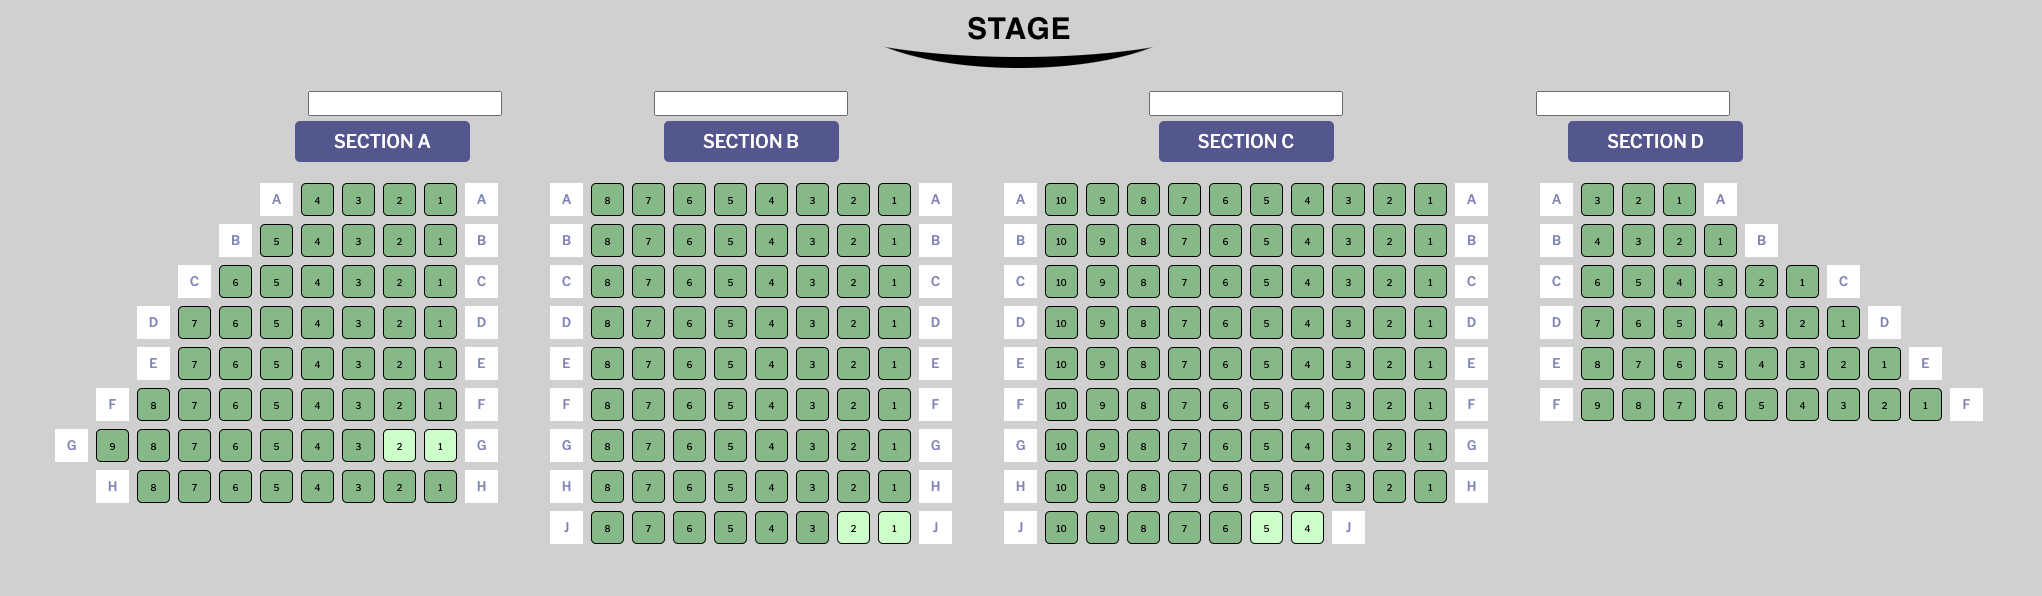
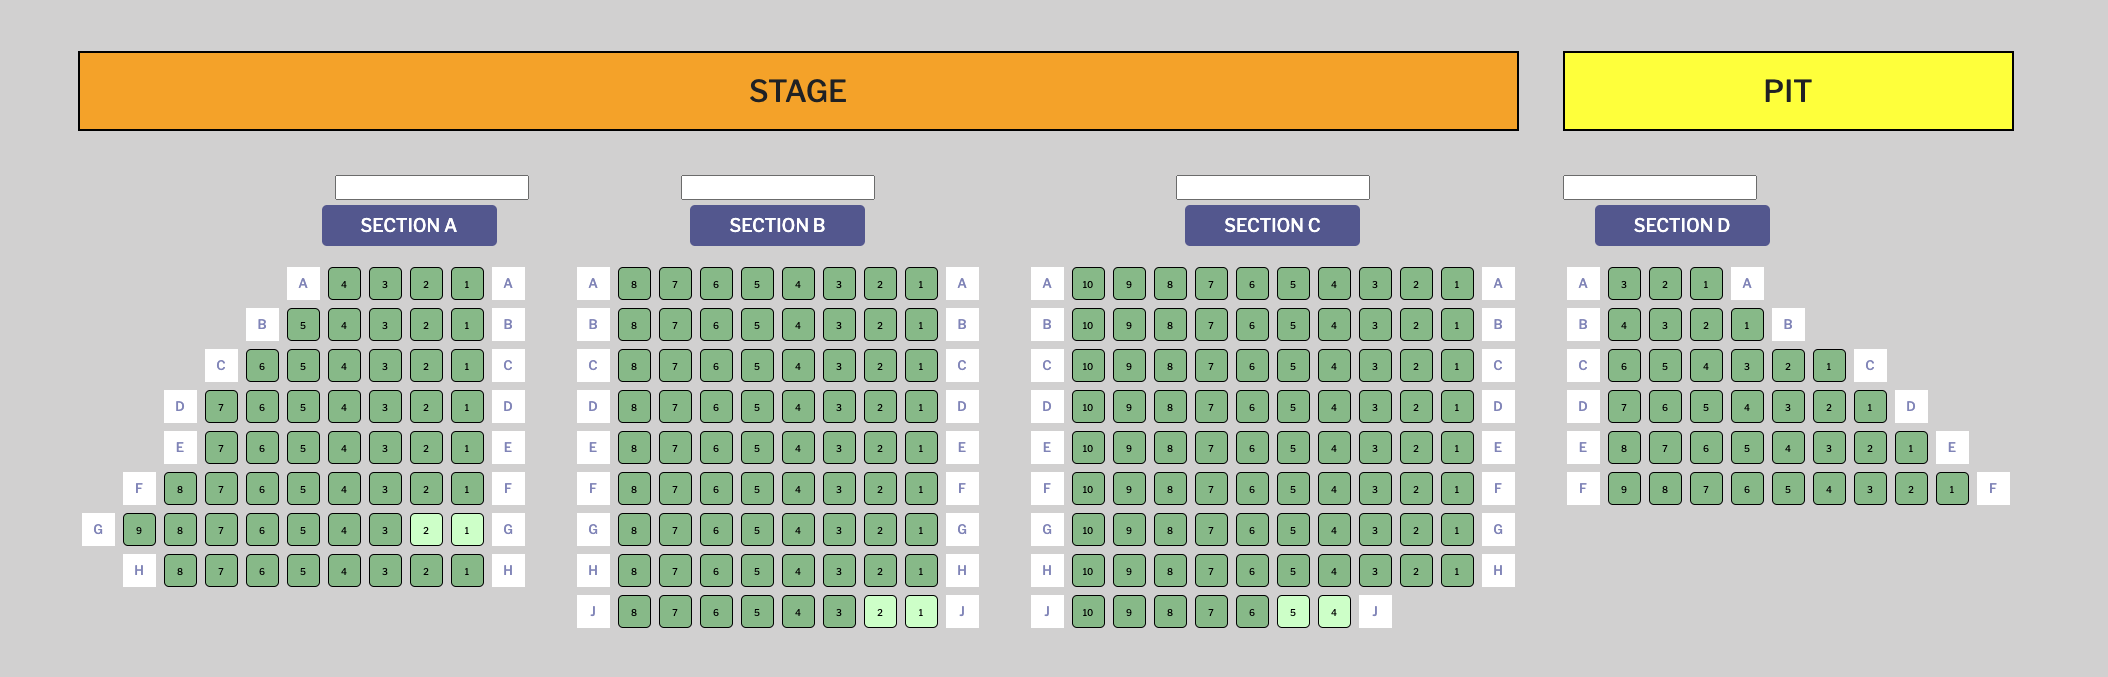
updates

diff --git a/Completed/38965.html b/Completed/38965.html
@@ -1,26 +1,35 @@
 <!-- Family of Christ 2024 -->
-<table width="100%" border="0" cellspacing="0" cellpadding="0" align="center">
-  <!-- Stage Image -->
-  <tr>
-    <td>
-      <div align="center" style="position: relative; z-index: 0">
-        <img
-          src="https://s3.amazonaws.com/prdv2-dt-client/seating_images/stage.png"
-          alt="STAGE"
-          width="300"
-          height="80"
-        />
-      </div>
-    </td>
-  </tr>
+<style>
+  .stage-section {
+    width: 100%;
+    height: 80px;
+    display: flex;
+    justify-content: center;
+    align-items: center;
+    border: 2px solid black;
+    background-color: orange;
+    font-size: 30px;
+  }
+  .pit-section {
+    width: 100%;
+    height: 80px;
+    display: flex;
+    justify-content: center;
+    align-items: center;
+    border: 2px solid black;
+    background-color: yellow;
+    font-size: 30px;
+  }
+</style>
 
+<table width="100%" border="0" cellspacing="0" cellpadding="0" align="center">
   <tr>
     <td>
       <div align="center" style="position: relative; z-index: 0">
         <img
           src="https://s3.amazonaws.com/prdv2-dt-client/seating_images/pixel.png"
           width="1"
-          height="10"
+          height="50"
         />
       </div>
     </td>
@@ -31,6 +40,37 @@
     <td>
       <div align="center" style="position: relative; z-index: 1">
         <table align="center">
+          <!-- Stage and Pit -->
+          <tr>
+            <td colspan="5">
+              <div class="stage-section" align="center">STAGE</div>
+            </td>
+            <td rowspan="4">
+              <div align="center">
+                <img
+                  src="https://s3.amazonaws.com/prdv2-dt-client/seating_images/pixel.png"
+                  width="40"
+                  height="1"
+                />
+              </div>
+            </td>
+            <td>
+              <div class="pit-section" align="center">PIT</div>
+            </td>
+          </tr>
+
+          <tr>
+            <td>
+              <div align="center">
+                <img
+                  src="https://s3.amazonaws.com/prdv2-dt-client/seating_images/pixel.png"
+                  width="1"
+                  height="40"
+                />
+              </div>
+            </td>
+          </tr>
+
           <!-- Names -->
           <tr>
             <td>
@@ -64,15 +104,6 @@
             <td>
               <div align="center" style="position: relative; z-index: 0">
                 {{{ sectionNames.50855 }}}
-              </div>
-            </td>
-            <td rowspan="2">
-              <div align="center" style="position: relative; z-index: 0">
-                <img
-                  src="https://s3.amazonaws.com/prdv2-dt-client/seating_images/pixel.png"
-                  width="40"
-                  height="1"
-                />
               </div>
             </td>
             <td>

diff --git a/Completed/39176.html b/Completed/39176.html
@@ -1,0 +1,98 @@
+<!-- Stretton Hall -->
+<table width="100%" border="0" cellspacing="0" cellpadding="0" align="center">
+  <!-- Stage Image -->
+  <tr>
+    <td>
+      <div align="center" style="position: relative; z-index: 0">
+        <img
+          src="https://s3.amazonaws.com/prdv2-dt-client/seating_images/stage.png"
+          alt="STAGE"
+          width="300"
+          height="80"
+        />
+      </div>
+    </td>
+  </tr>
+
+  <tr>
+    <td>
+      <div align="center" style="position: relative; z-index: 0">
+        <img
+          src="https://s3.amazonaws.com/prdv2-dt-client/seating_images/pixel.png"
+          width="1"
+          height="10"
+        />
+      </div>
+    </td>
+  </tr>
+
+  <!-- ALL -->
+  <tr>
+    <td>
+      <div align="center">
+        <table align="center">
+          <!-- Names -->
+          <tr>
+            <td>
+              <div
+                align="center"
+                style="position: relative; z-index: 0;"
+              >
+                {{{ sectionNames.51085 }}}
+              </div>
+            </td>
+            <td rowspan="2">
+              <div align="center" style="position: relative; z-index: 0">
+                <img
+                  src="https://s3.amazonaws.com/prdv2-dt-client/seating_images/pixel.png"
+                  width="40"
+                  height="1"
+                />
+              </div>
+            </td>
+            <td>
+              <div align="center" style="position: relative; z-index: 0">
+                {{{ sectionNames.51086 }}}
+              </div>
+            </td>
+            <td rowspan="2">
+              <div align="center" style="position: relative; z-index: 0">
+                <img
+                  src="https://s3.amazonaws.com/prdv2-dt-client/seating_images/pixel.png"
+                  width="40"
+                  height="1"
+                />
+              </div>
+            </td>
+            <td>
+              <div
+                align="center"
+                style="position: relative; z-index: 0;"
+              >
+                {{{ sectionNames.51087 }}}
+              </div>
+            </td>
+          </tr>
+          <!-- Seats -->
+          <tr>
+            <td>
+              <div align="right" style="position: relative; z-index: 1">
+                {{{ sectionsMarkup.51085 }}}
+              </div>
+            </td>
+            <td>
+              <div align="center" style="position: relative; z-index: 1">
+                {{{ sectionsMarkup.51086 }}}
+              </div>
+            </td>
+            <td>
+              <div align="left" style="position: relative; z-index: 1">
+                {{{ sectionsMarkup.51087 }}}
+              </div>
+            </td>
+          </tr>
+        </table>
+      </div>
+    </td>
+  </tr>
+</table>
